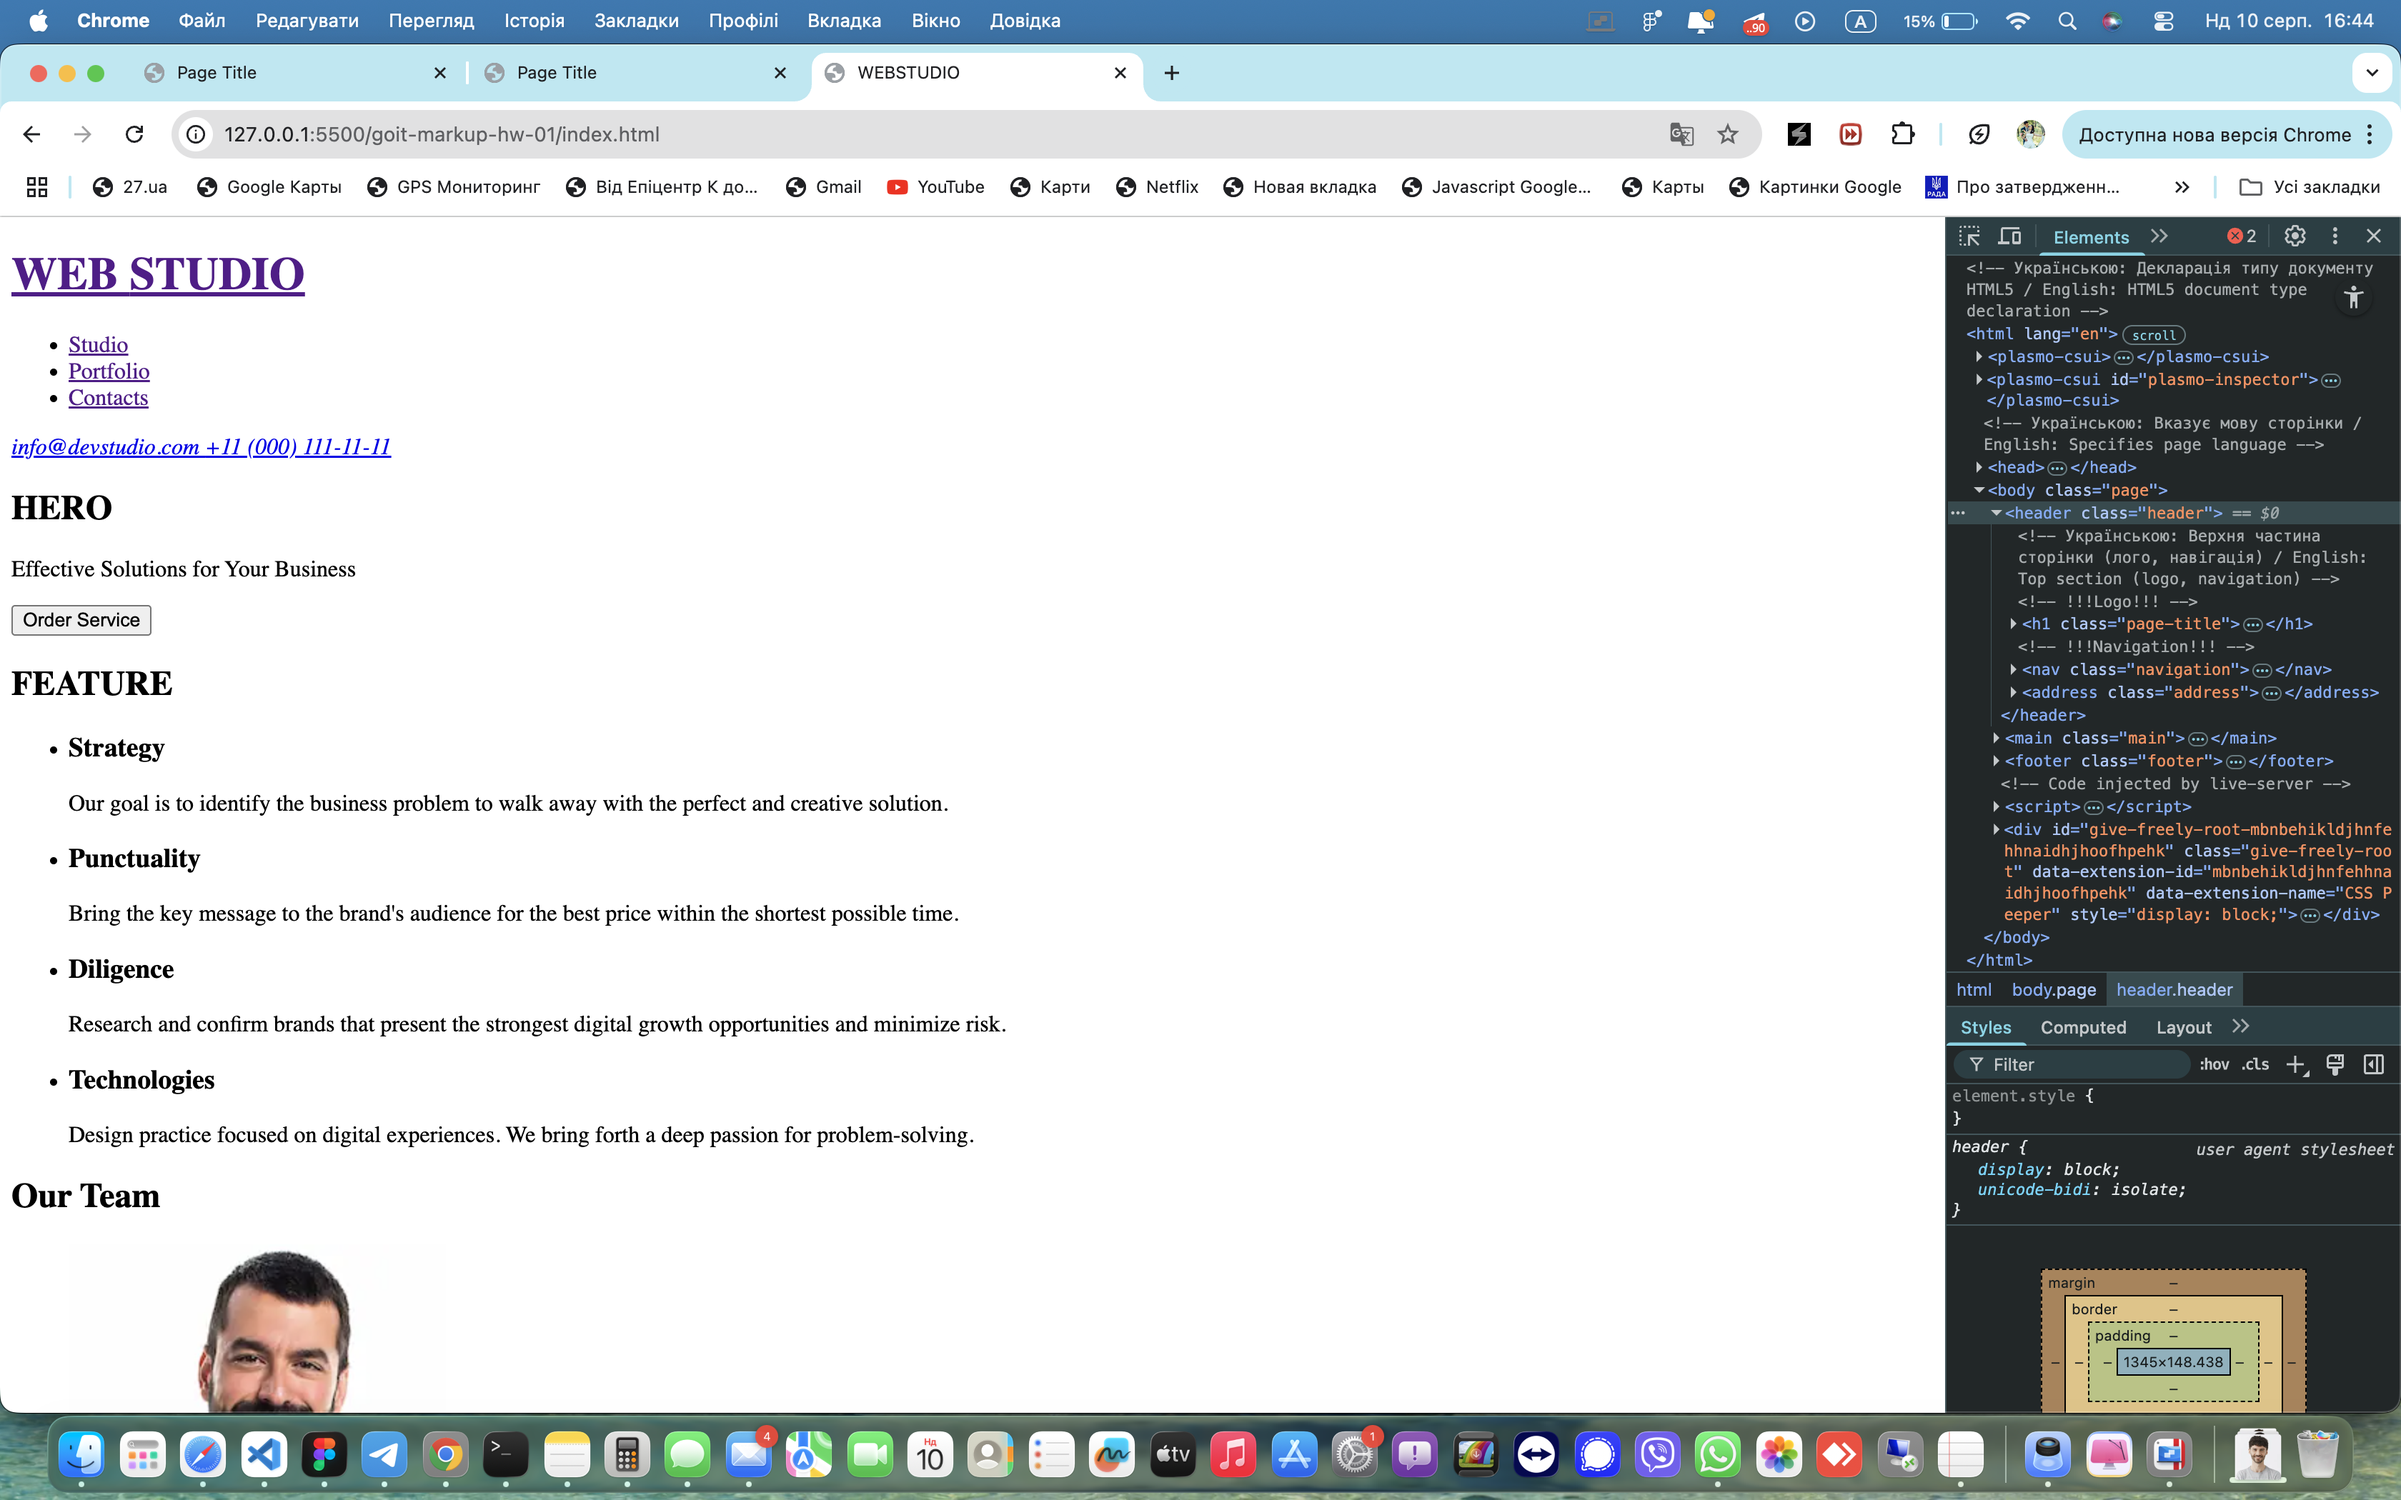
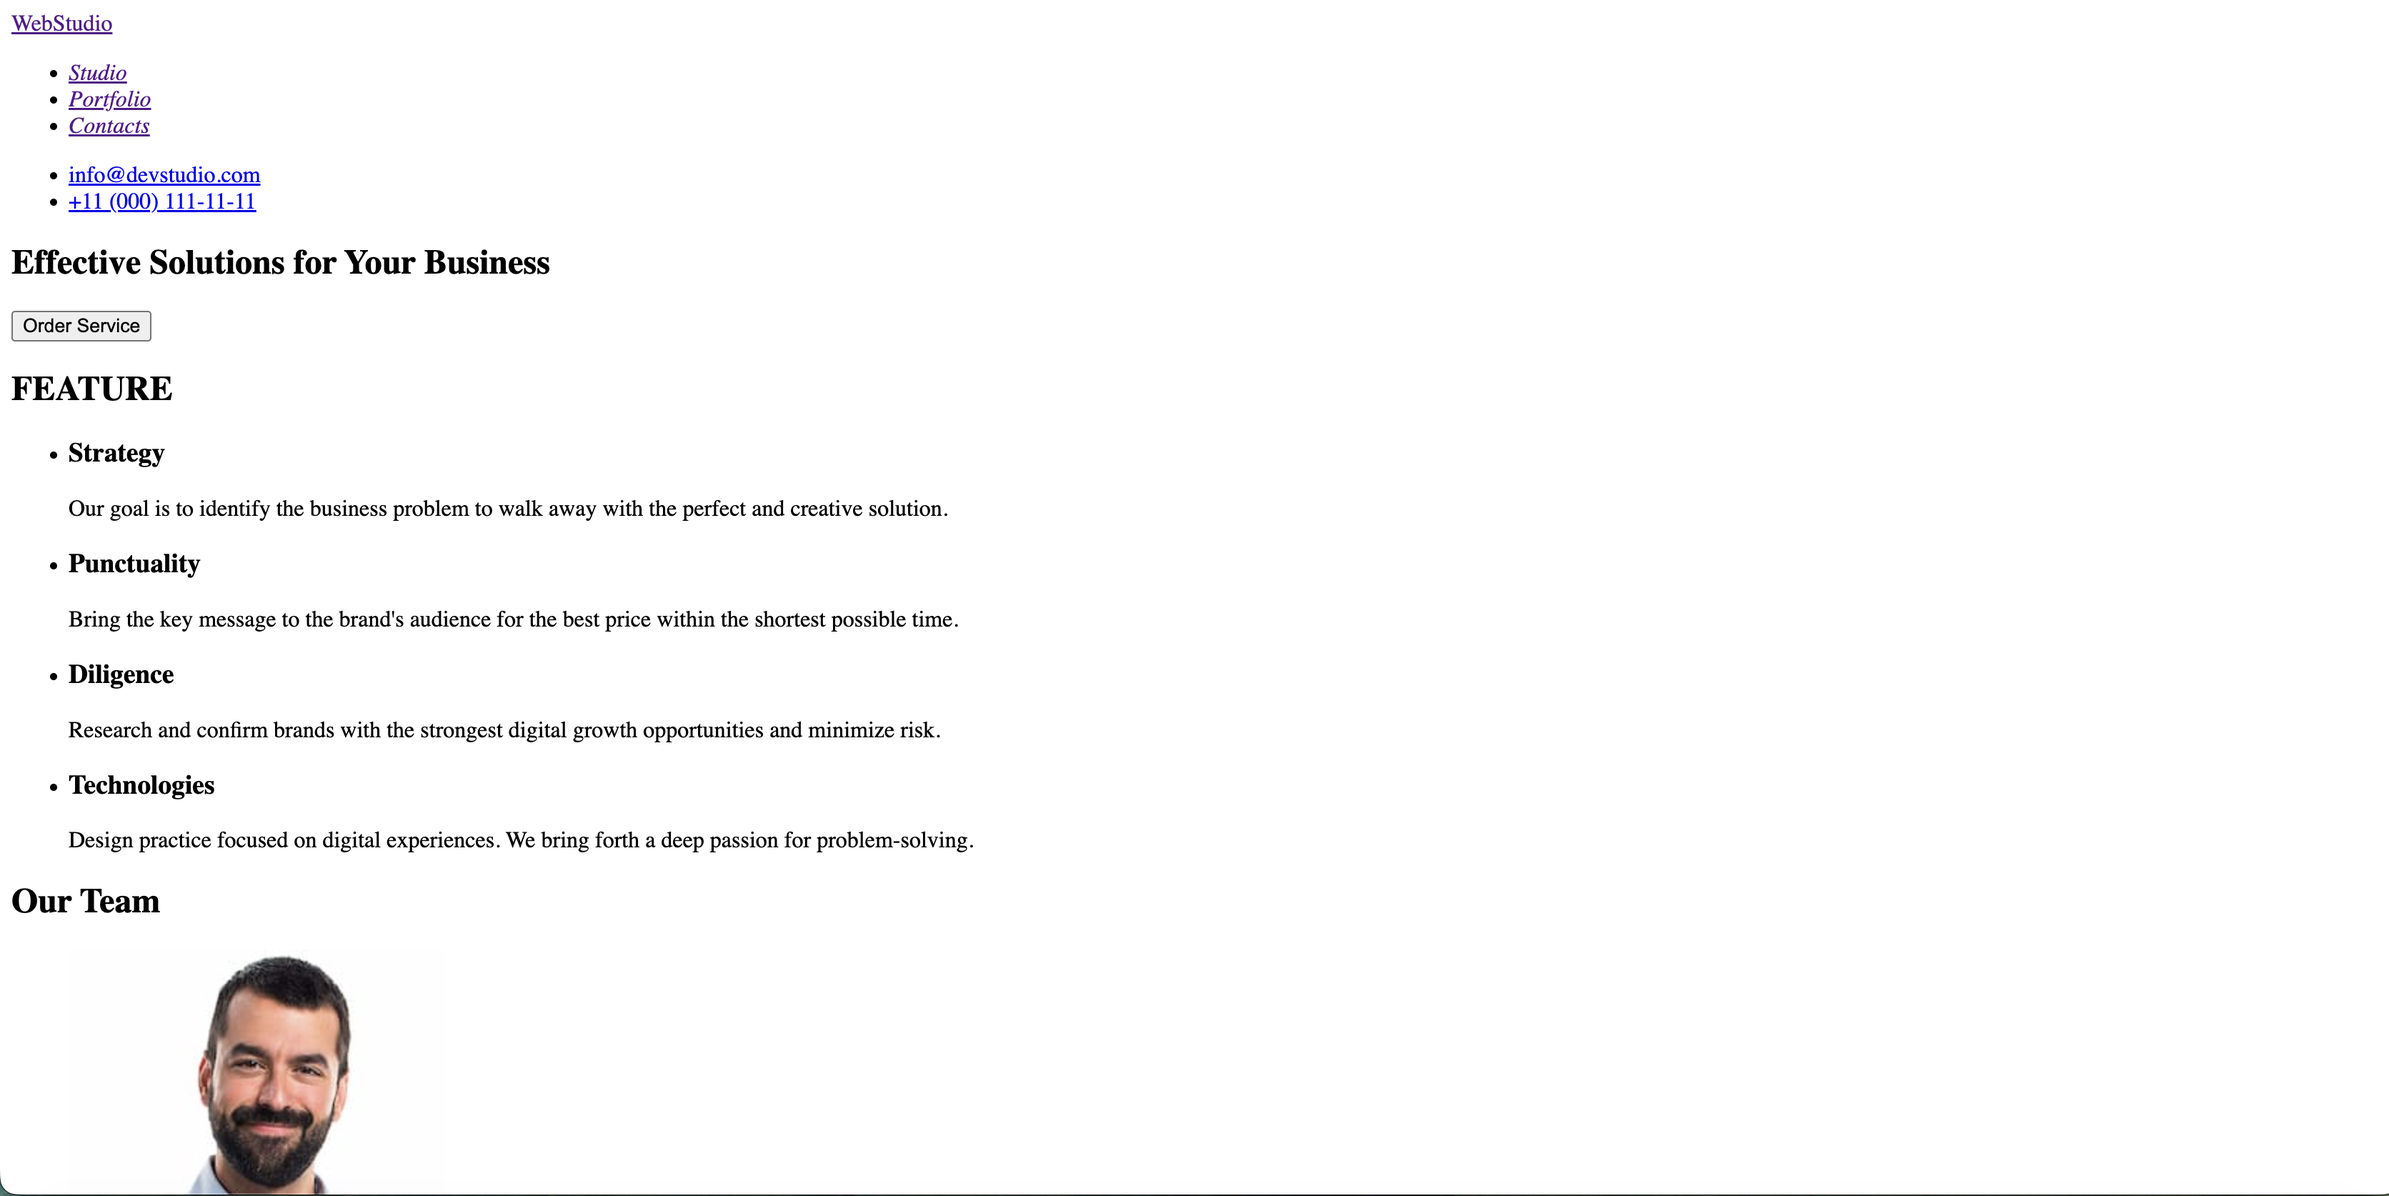
bug fix 3

diff --git a/index.html b/index.html
@@ -23,7 +23,7 @@
         <!-- !!!Logo!!! -->
         <a class="logo" href="./index.html" target="_self" rel="noopener">
           <!-- Українською: Гіперпосилання / English: Hyperlink -->
-          >WebStudio
+          WebStudio
         </a>
         <address class="address">
           <!-- Українською: Контактна інформація / English: Contact Information -->
